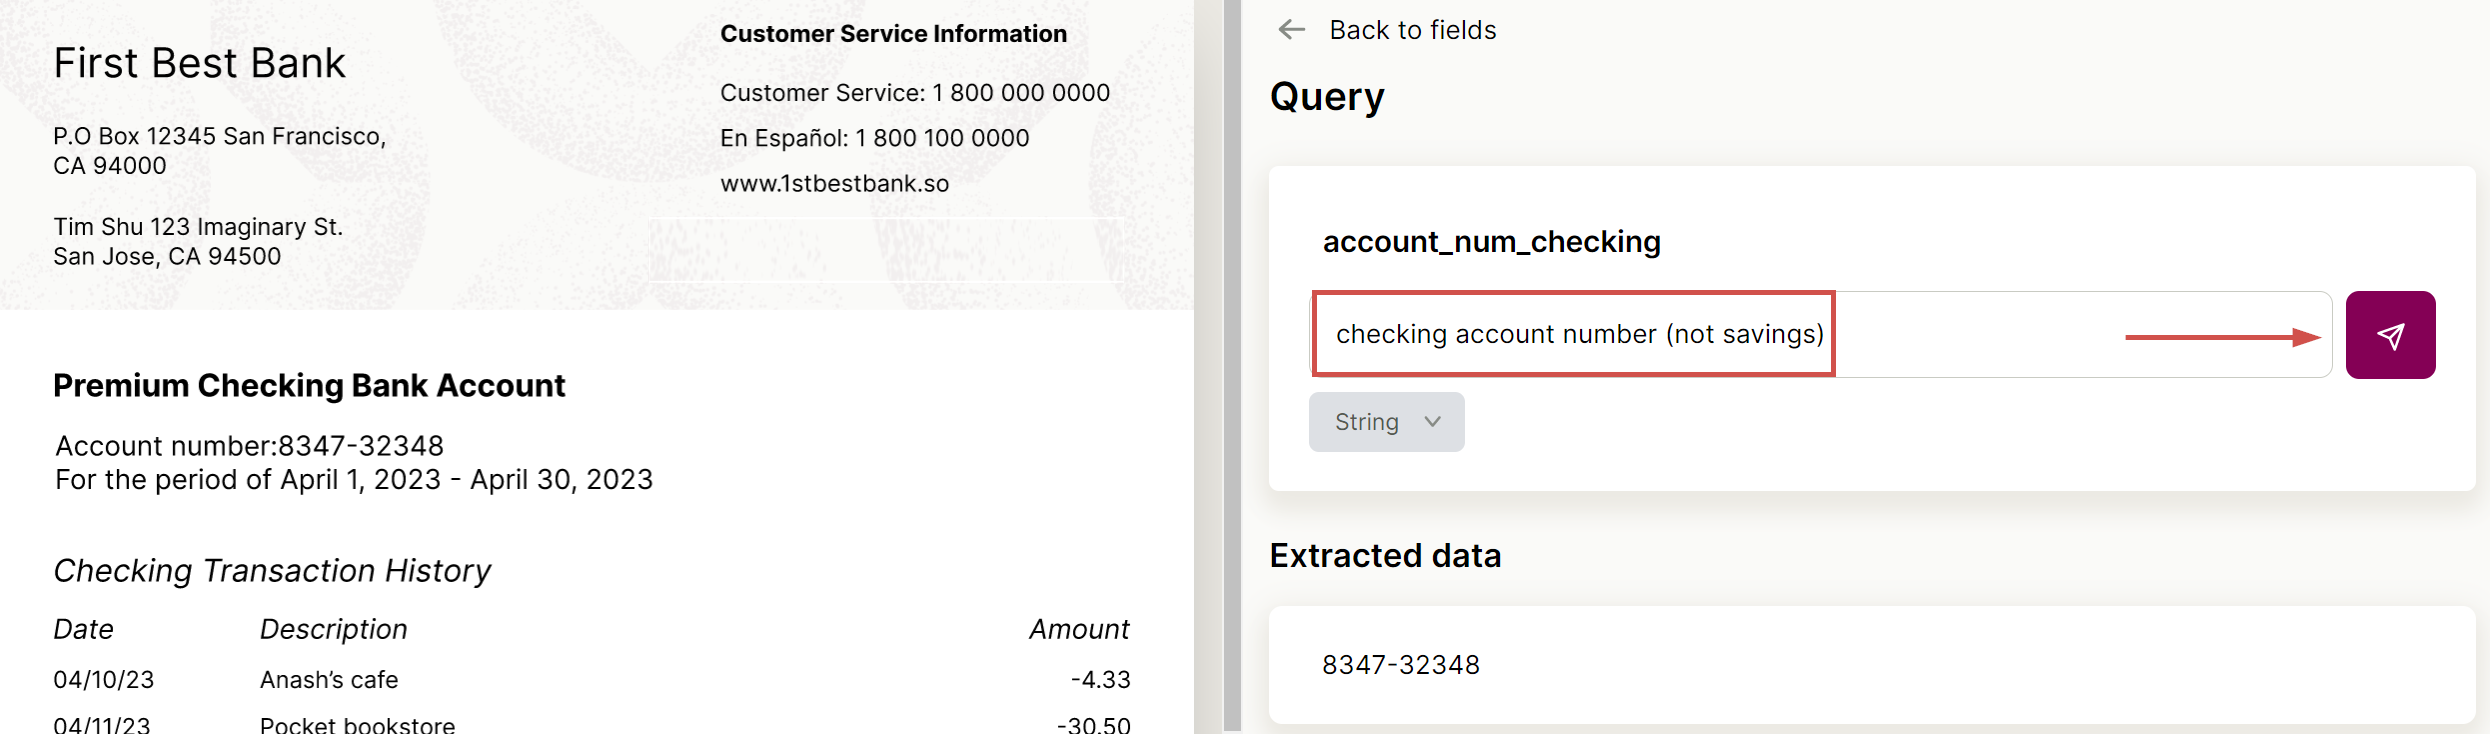
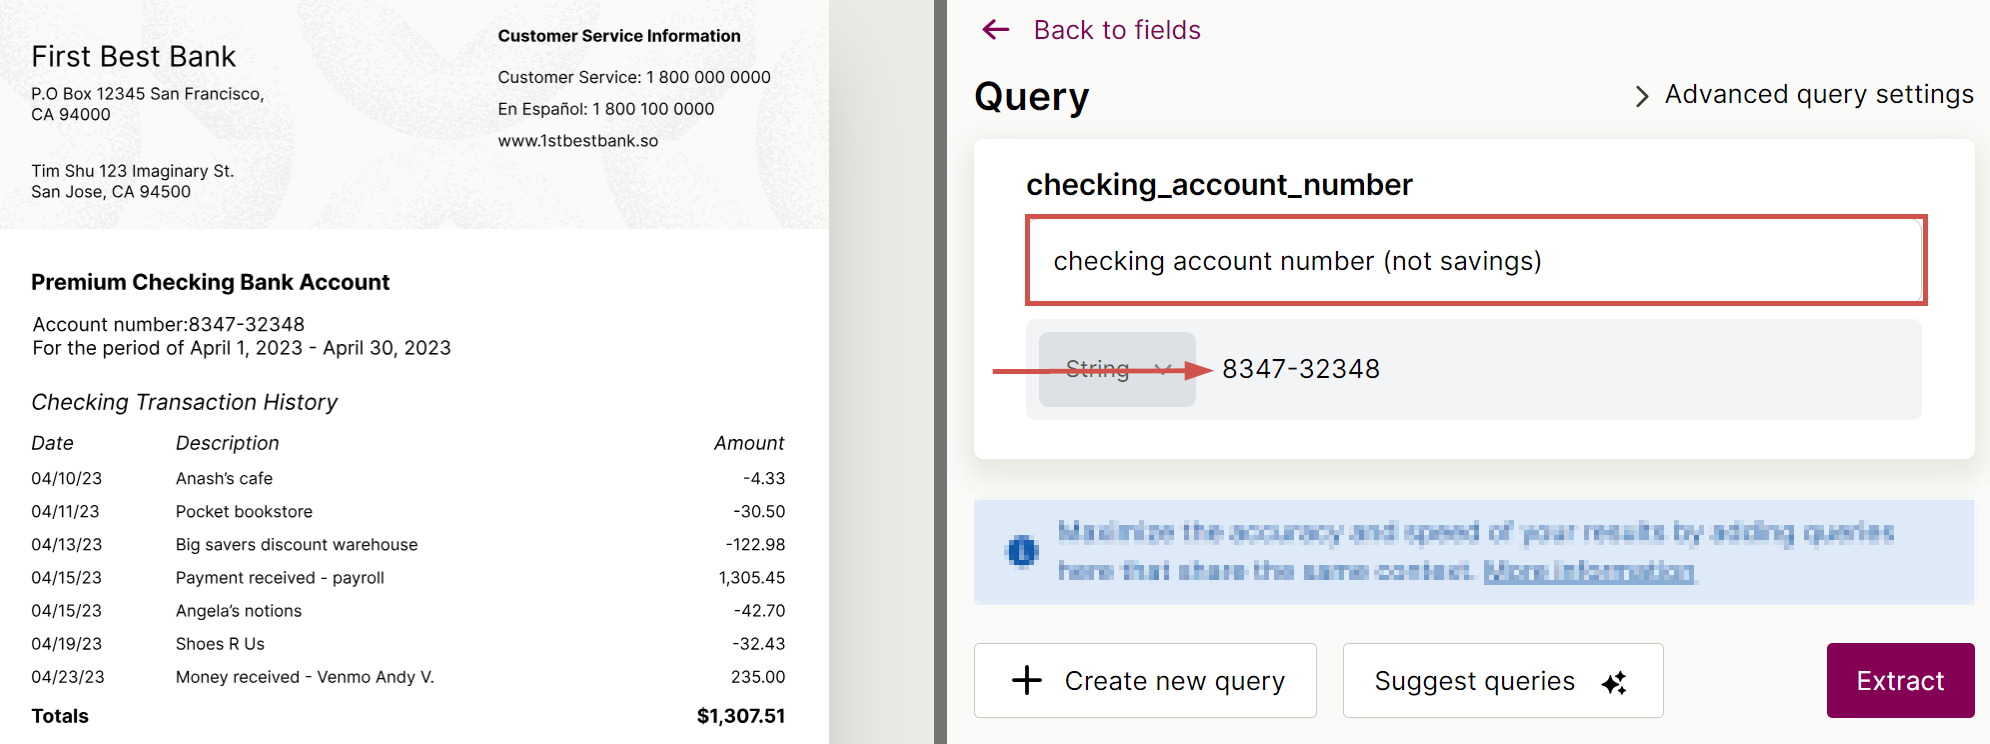
auto gen query group

diff --git a/readme-sync/v0/welcome/2000 - getting-started-ai.md b/readme-sync/v0/welcome/2000 - getting-started-ai.md
@@ -46,18 +46,36 @@ Let's get started with extracting document data from an example bank statement. 
 
 Take the following steps to create a prompt to extract more data from the document.
 
-## Extract an account number from a bank statement
+## Auto-extract data
 
-1. To extract data points from the document, click **Query group**.
+To extract document data automatically, take the following steps:
+
+1. Click **Query group**:
+
+   ![Click to enlarge](https://raw.githubusercontent.com/sensible-hq/sensible-docs/main/readme-sync/assets/v0/images/final/quickstart_instruct_2.png)
+
+2. Click **Auto generate**, then click **Generate**:
+
+   ![Click to enlarge](https://raw.githubusercontent.com/sensible-hq/sensible-docs/main/readme-sync/assets/v0/images/final/quickstart_instruct_auto.png)
+
+3. Sensible automatically generates queries and extracts their answers from the document:
+
+   ![Click to enlarge](https://raw.githubusercontent.com/sensible-hq/sensible-docs/main/readme-sync/assets/v0/images/final/quickstart_instruct_auto_2.png)
+
+To test the automatically generated extraction configuration with another document,  see [Test the prompt](doc:getting-started-ai#test-the-prompt). To author your own extraction configurations, see the following section.
+
+## Manually configure extraction
+
+1. To author your own LLM prompts to extract data points from the document, click **Query group**.
 
 ![Click to enlarge](https://raw.githubusercontent.com/sensible-hq/sensible-docs/main/readme-sync/assets/v0/images/final/quickstart_instruct_2.png)
 
-2. Edit the query group as shown in the following screenshot by entering `checking account number (not savings)` in the query field.  Click **Create new query** and enter  .  Click **Extract**.
+2. Edit the query group as shown in the following screenshot by entering `checking account number (not savings)` in the query field.  Click **Extract**. 
+2. Sensible displays the extracted account number, `8347-32348`, in the **Extracted data** section:
 
 ![Click to enlarge](https://raw.githubusercontent.com/sensible-hq/sensible-docs/main/readme-sync/assets/v0/images/final/quickstart_instruct_3.png)
 
-- Sensible displays the extracted account number, `8347-32348`, in the **Extracted data** section.
-- Click **Back to fields**.
+4. Click **Back to fields**.
 
 Congratulations! You extracted the checking account number from the bank statement.
 
